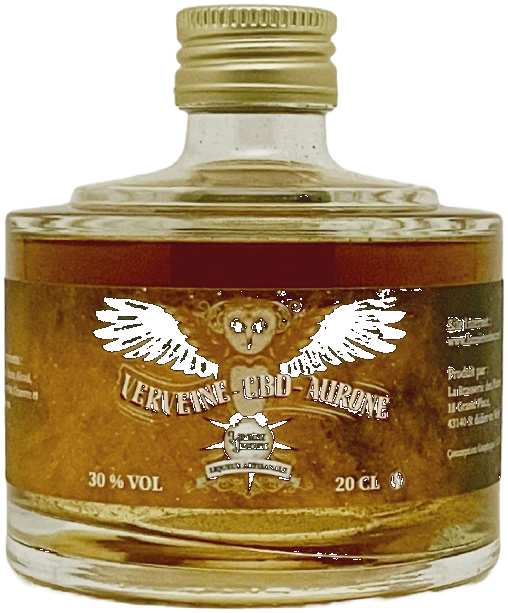
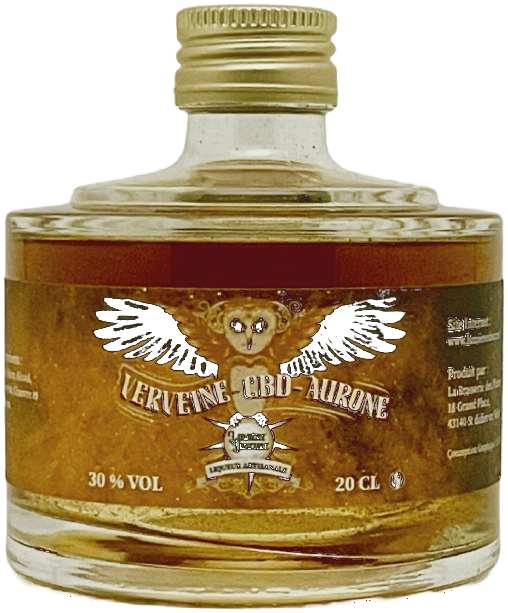
CBD 20cl : lum préservée (seuil doux) + retrait du 50cl inexistant
── Fix images CBD ───────────────────────────────────────────────────

Guillaume a remonté que les couleurs/luminosité des bouteilles CBD
étaient modifiées. Cause : mon seuil dur (alpha=0 pour lum<28)
détruisait aussi les bords semi-sombres de la bouteille, créant un
halo noir → perte de lumière perçue.

Fix : double seuil + transition douce.
  - lum ≤ 12 : alpha 0 (fond noir pur → transparent)
  - lum 12-32 : alpha proportionnel (anti-aliasing des bords préservé)
  - lum ≥ 32 : pixel strictement inchangé (couleurs bouteille intactes)

Qualité WebP remontée : 90 → 95, alphaQuality 90 → 100, effort max.

Les images -20cl.webp gardent les dimensions originales (1420×2048),
juste le fond remplacé par transparent — AUCUNE modification de
composition. Les -20cl-stack.webp restent croppées serrées pour
l'empilement (utilisation interne).

── Gamme Lumière Obscure : pas de 50cl ──────────────────────────────

Les 3 produits CBD n'existent qu'en 20cl et 70cl. Le 50cl était
listé par erreur dans sizes. Retiré dans les 3 .md :
  - menthe-cbd-ortie.md
  - verveine-cbd-aurone.md
  - absinthe-cbd-citron.md
  sizes: [Empilable 20cl, 70cl]   (au lieu de 20/50/70)

diff --git a/src/content/products/absinthe-cbd-citron.md b/src/content/products/absinthe-cbd-citron.md
@@ -17,7 +17,7 @@ tasting:
   palate: "Très verte, herbacée, avec l'absinthe en fond mentholé."
   finish: "Chanvre persistant."
 serving: "Digestif, à température ambiante. Pour amateurs avertis."
-sizes: [Empilable 20cl, 50cl, 70cl]
+sizes: [Empilable 20cl, 70cl]
 sizeImages:
   - size: 20
     image: /images/products/sizes/absinthe-cbd-citron-20cl.webp

diff --git a/src/content/products/verveine-cbd-aurone.md b/src/content/products/verveine-cbd-aurone.md
@@ -16,7 +16,7 @@ tasting:
   palate: "Verveine dominante, chanvre en fond."
   finish: "Persistante, légèrement camphrée."
 serving: "Digestif, à température ambiante."
-sizes: [Empilable 20cl, 50cl, 70cl]
+sizes: [Empilable 20cl, 70cl]
 sizeImages:
   - size: 20
     image: /images/products/sizes/verveine-cbd-aurone-20cl.webp

diff --git a/src/content/products/menthe-cbd-ortie.md b/src/content/products/menthe-cbd-ortie.md
@@ -16,7 +16,7 @@ tasting:
   palate: "Herbacé, thé à la menthe, assez doux."
   finish: "Longue menthe verte."
 serving: "Apéritif, frais, en long drink ou pur."
-sizes: [Empilable 20cl, 50cl, 70cl]
+sizes: [Empilable 20cl, 70cl]
 sizeImages:
   - size: 20
     image: /images/products/sizes/menthe-cbd-ortie-20cl.webp
